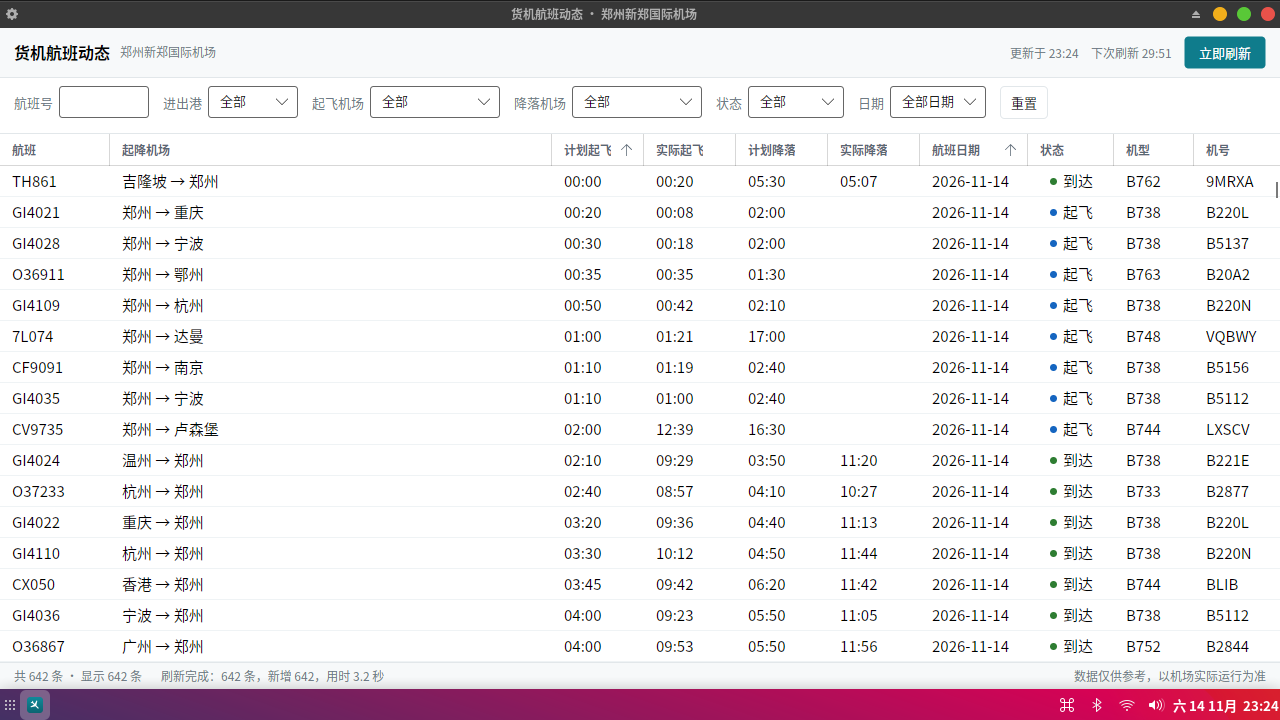
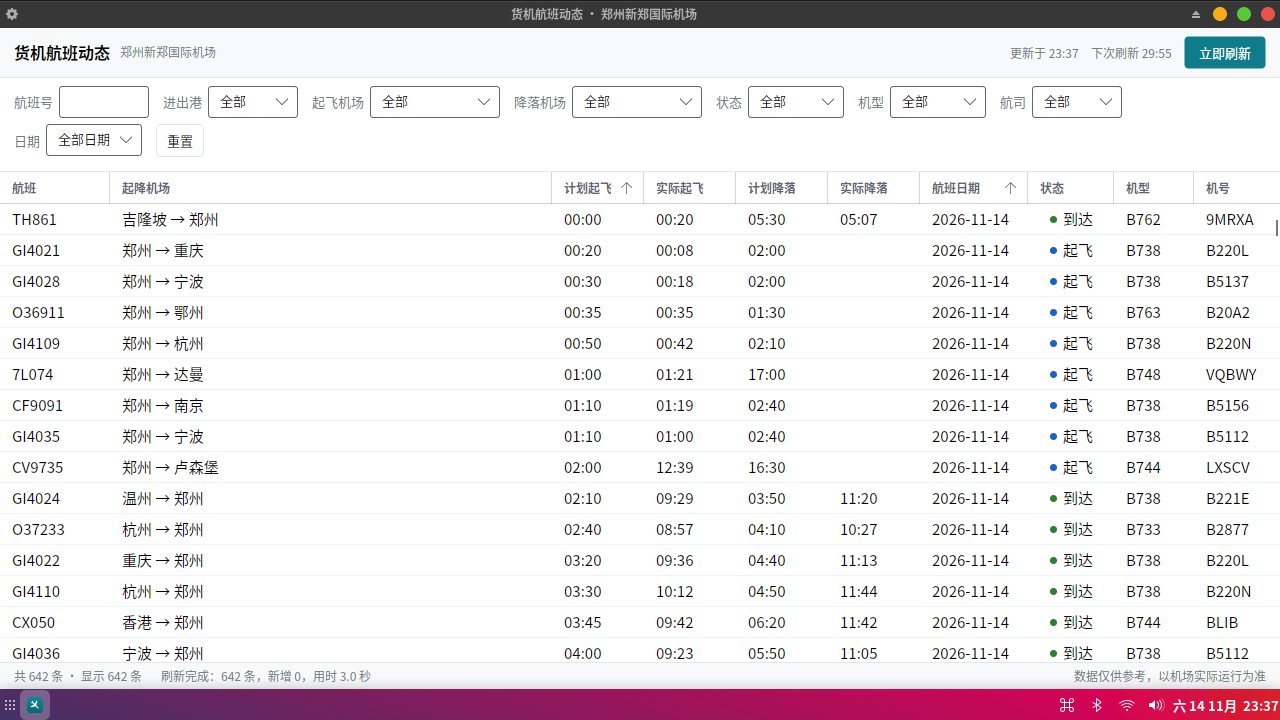
feat(board): 板端增加机型/航司下拉筛选
- MainViewModel 新增 CraftType/Airline 选项、匹配与重置
- 筛选区加「机型」「航司」两个 ComboBox（720p 下自动换两行）
- 实测：B738=321、CZ=123、CZ+A332=0；板端已更新并记账

diff --git a/src/ZhccCargoBoard.Desktop/ViewModels/MainViewModel.cs b/src/ZhccCargoBoard.Desktop/ViewModels/MainViewModel.cs
@@ -24,6 +24,8 @@ public sealed class MainViewModel : INotifyPropertyChanged, IDisposable
     private string _origin = All;
     private string _dest = All;
     private string _status = All;
+    private string _craftType = All;
+    private string _airline = All;
     private string _dateFilter = "全部日期";
 
     private bool _isBusy;
@@ -65,6 +67,8 @@ public sealed class MainViewModel : INotifyPropertyChanged, IDisposable
     public ObservableCollection<string> OriginOptions { get; } = new() { All };
     public ObservableCollection<string> DestOptions { get; } = new() { All };
     public ObservableCollection<string> StatusOptions { get; } = new() { All };
+    public ObservableCollection<string> CraftTypeOptions { get; } = new() { All };
+    public ObservableCollection<string> AirlineOptions { get; } = new() { All };
     public ObservableCollection<string> DateOptions { get; } = new() { "全部日期", "今天", "明天", "后天" };
 
     // ---------------- 筛选条件 ----------------
@@ -96,6 +100,18 @@ public sealed class MainViewModel : INotifyPropertyChanged, IDisposable
     {
         get => _status;
         set => SetFilter(ref _status, value);
+    }
+
+    public string CraftType
+    {
+        get => _craftType;
+        set => SetFilter(ref _craftType, value);
+    }
+
+    public string Airline
+    {
+        get => _airline;
+        set => SetFilter(ref _airline, value);
     }
 
     public string DateFilter
@@ -221,16 +237,22 @@ public sealed class MainViewModel : INotifyPropertyChanged, IDisposable
         var origin = Origin;
         var dest = Dest;
         var status = Status;
+        var craftType = CraftType;
+        var airline = Airline;
 
         Fill(OriginOptions, _all.Select(r => r.OriginCn));
         Fill(DestOptions, _all.Select(r => r.DestCn));
         Fill(StatusOptions, _all.Select(r => r.StatusText));
+        Fill(CraftTypeOptions, _all.Select(r => r.CraftType));
+        Fill(AirlineOptions, _all.Select(r => r.AirlineCode));
 
         // 列表被 Clear 时 ComboBox 的选中项会被清空，这里无条件重写回 VM 并通知，
         // 否则会出现"下拉框空白但筛选值其实是全部"的假象。
         Restore(ref _origin, OriginOptions, origin, nameof(Origin));
         Restore(ref _dest, DestOptions, dest, nameof(Dest));
         Restore(ref _status, StatusOptions, status, nameof(Status));
+        Restore(ref _craftType, CraftTypeOptions, craftType, nameof(CraftType));
+        Restore(ref _airline, AirlineOptions, airline, nameof(Airline));
 
         static void Fill(ObservableCollection<string> target, IEnumerable<string> values)
         {
@@ -289,6 +311,8 @@ public sealed class MainViewModel : INotifyPropertyChanged, IDisposable
         if (!IsAll(Origin) && !string.Equals(r.OriginCn, Origin, StringComparison.Ordinal)) return false;
         if (!IsAll(Dest) && !string.Equals(r.DestCn, Dest, StringComparison.Ordinal)) return false;
         if (!IsAll(Status) && !string.Equals(r.StatusText, Status, StringComparison.Ordinal)) return false;
+        if (!IsAll(CraftType) && !string.Equals(r.CraftType, CraftType, StringComparison.OrdinalIgnoreCase)) return false;
+        if (!IsAll(Airline) && !string.Equals(r.AirlineCode, Airline, StringComparison.OrdinalIgnoreCase)) return false;
 
         if (DateFilter is "今天" or "明天" or "后天")
         {
@@ -307,12 +331,16 @@ public sealed class MainViewModel : INotifyPropertyChanged, IDisposable
         _origin = All;
         _dest = All;
         _status = All;
+        _craftType = All;
+        _airline = All;
         _dateFilter = "全部日期";
         OnPropertyChanged(nameof(FlightNo));
         OnPropertyChanged(nameof(Direction));
         OnPropertyChanged(nameof(Origin));
         OnPropertyChanged(nameof(Dest));
         OnPropertyChanged(nameof(Status));
+        OnPropertyChanged(nameof(CraftType));
+        OnPropertyChanged(nameof(Airline));
         OnPropertyChanged(nameof(DateFilter));
         View.Refresh();
         OnPropertyChanged(nameof(VisibleCount));
